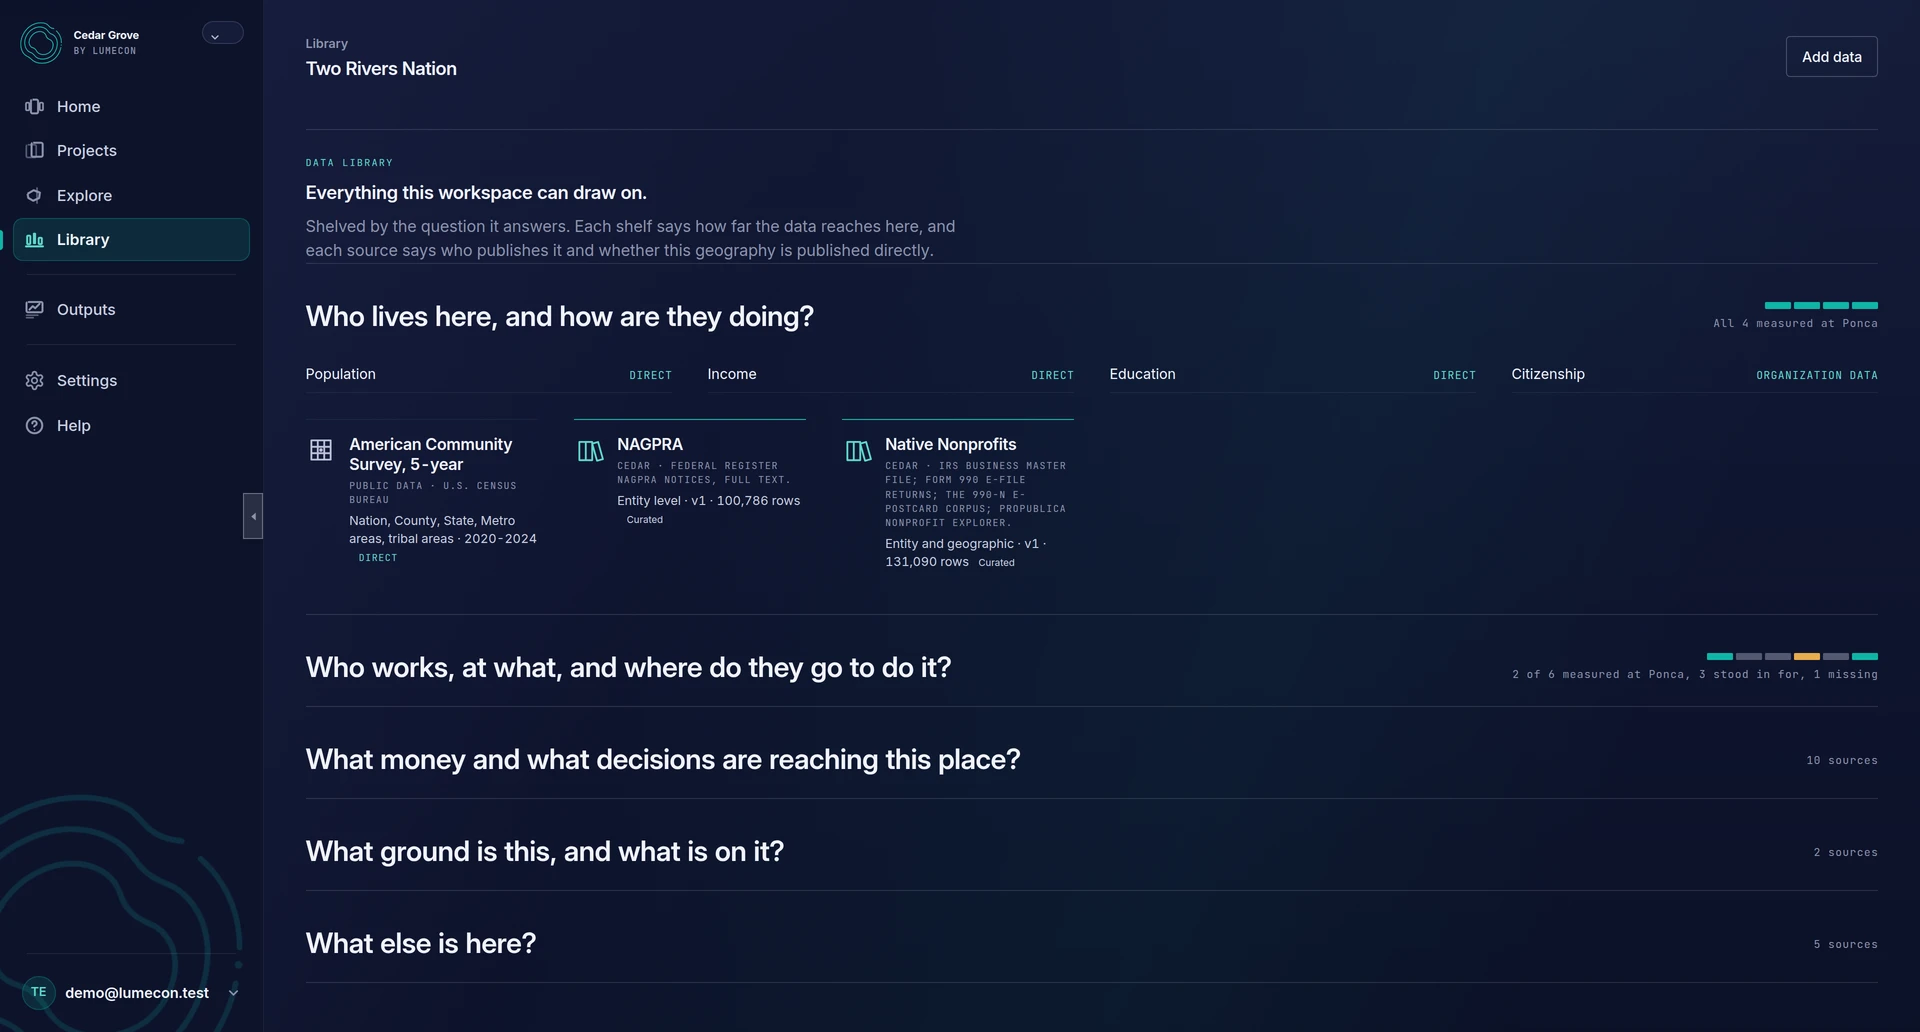
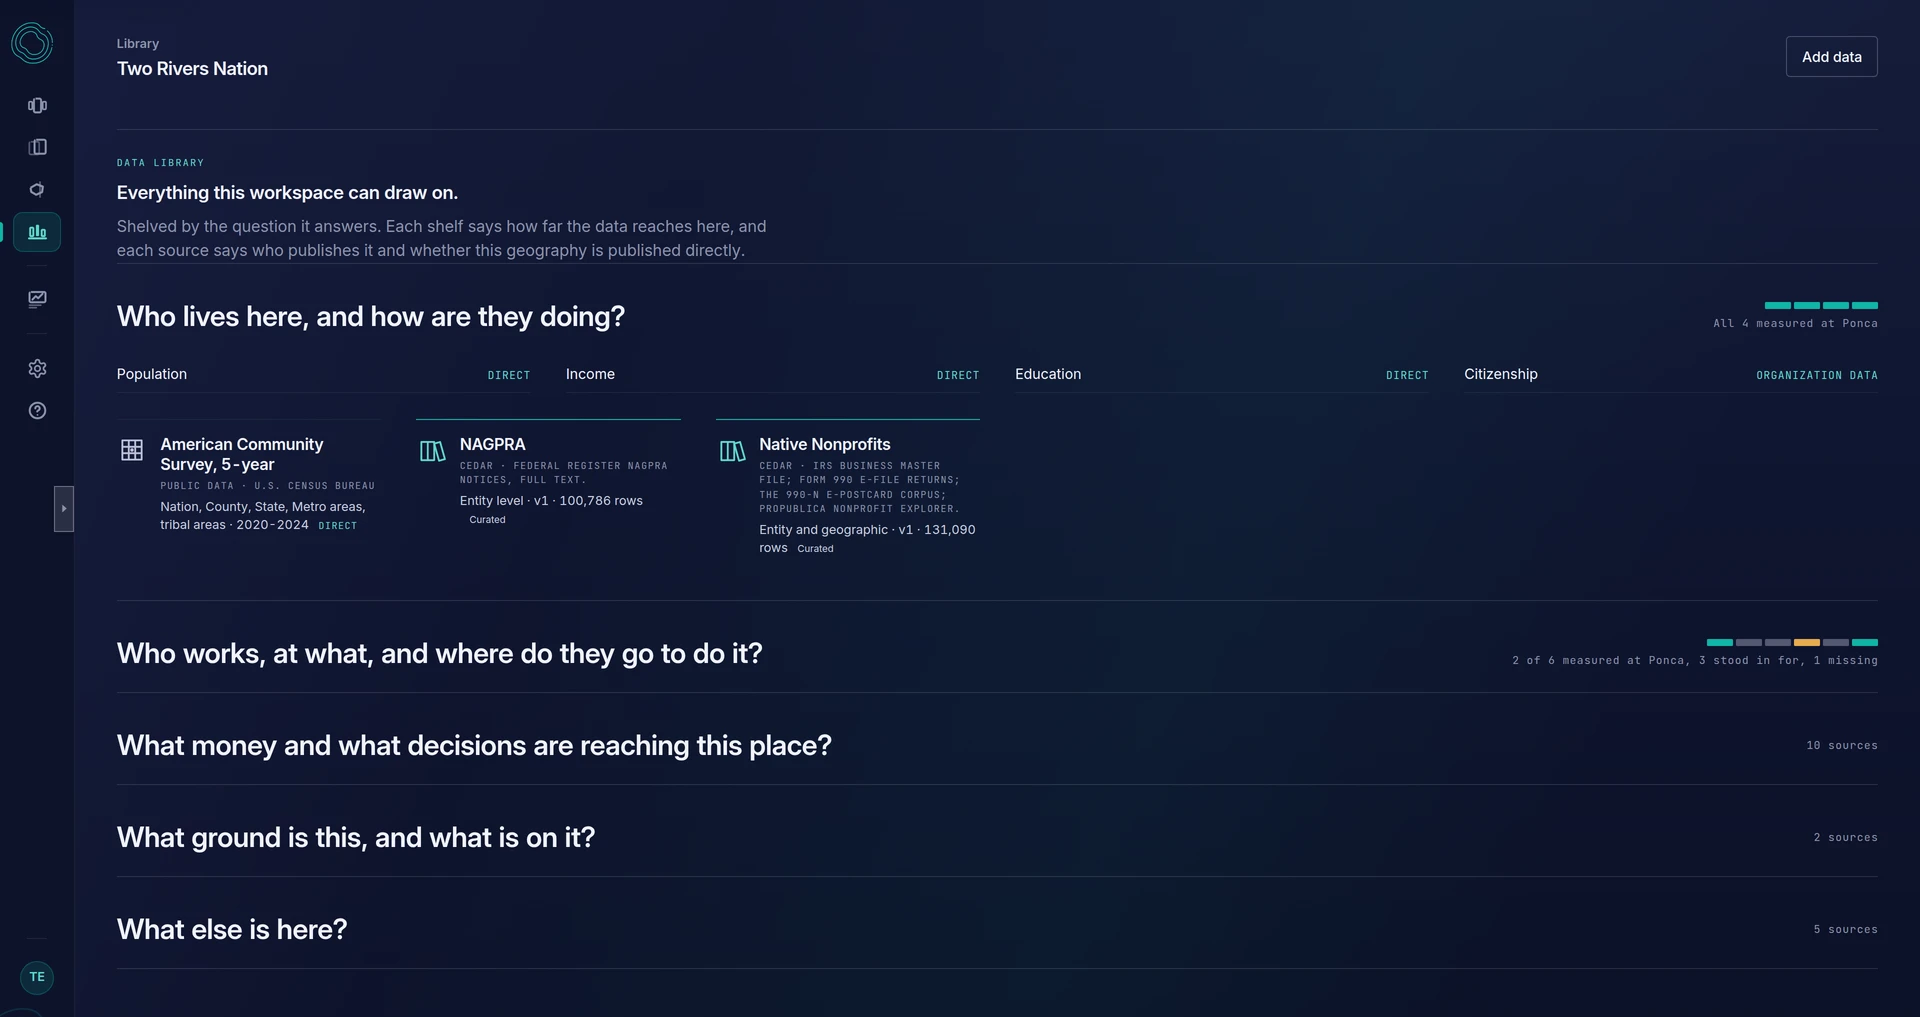
Collapse the rail in the captures, and raise the text card off the band
Three changes, all from looking at the page rather than the code.

The rail is collapsed to its icon strip in every capture but Home. It is
264px expanded and 75px collapsed, and each shot renders here at about half
size, so those 189px were the difference between a readable shelf and grey
texture. Home keeps the labelled rail because it is the shot that establishes
the five surfaces; after that the row's own heading says which surface it is,
and the nav does not need to say it four more times.

The text card is a raised panel rather than a tint. The screenshots beside it
read as windows, because they have an edge, a ground of their own and a shadow
under them; at 82 percent opacity over a 30px-blurred shadow the text sat on
the band instead of on top of it, so each row was one elevated object and one
flat one. It is nearly opaque now, on a tighter shadow that resolves close to
the edge, which is what actually reads as height, with the lit top edge the
product's own surfaces use.

The intrinsic sizes are generated. They were typed into this page, and the
first time the captures changed shape, which is what collapsing the rail did,
all five went stale at once. A wrong intrinsic height is a layout shift on
every row as the images land. The optimize step writes what it actually
produced to groveShots.generated.json and the page reads it, so the number
that describes a file now lives with the file.

🤖 Generated with [Claude Code](https://claude.com/claude-code)
[…]

diff --git a/src/styles/grove-page.css b/src/styles/grove-page.css
@@ -1135,11 +1135,25 @@
    does not touch --surface-glass-strong, which stays the light-mode glass at
    90 percent white. The card therefore came out pale with white type on it and
    the heading was invisible. Only the card's ground was wrong, so only the
-   card's ground is set here and the inherited light type does the rest. */
+   card's ground is set here and the inherited light type does the rest.
+
+   It is a raised panel rather than a tint. The screenshots beside it read as
+   windows, because they have an edge, a ground of their own and a shadow under
+   them; at 82 percent opacity with a 30px-blurred shadow the text sat on the
+   band instead of on top of it, so the row read as one elevated object and one
+   flat one. It is nearly opaque now, on a tighter shadow that resolves close to
+   the edge, which is what actually reads as height. The lit top edge is the
+   same inset highlight the product's own surfaces use. */
 .grovetour .tour-row__text {
-  background: rgba(6, 38, 40, 0.82);
-  border-color: rgba(115, 226, 214, 0.22);
-  box-shadow: 0 24px 60px -30px rgba(0, 0, 0, 0.75);
+  background: rgba(5, 32, 34, 0.97);
+  border-color: rgba(115, 226, 214, 0.26);
+  box-shadow:
+    inset 0 1px 0 rgba(160, 240, 230, 0.13),
+    0 2px 6px -1px rgba(0, 0, 0, 0.42),
+    0 28px 52px -22px rgba(0, 0, 0, 0.72);
+  backdrop-filter: none;
+  -webkit-backdrop-filter: none;
+  padding: clamp(1.6rem, 2.6vw, 2.2rem);
 }
 .grovetour .tour-row__kicker {
   color: #73e2d6;
